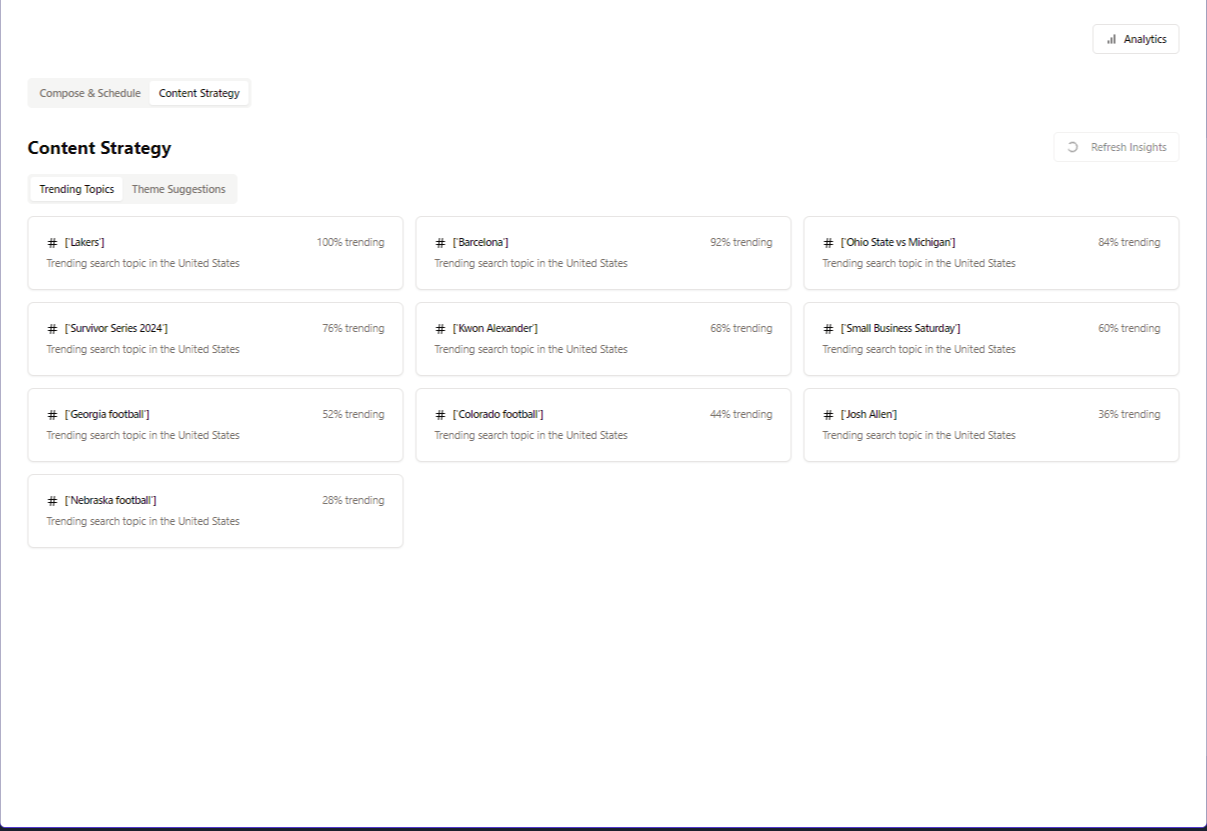
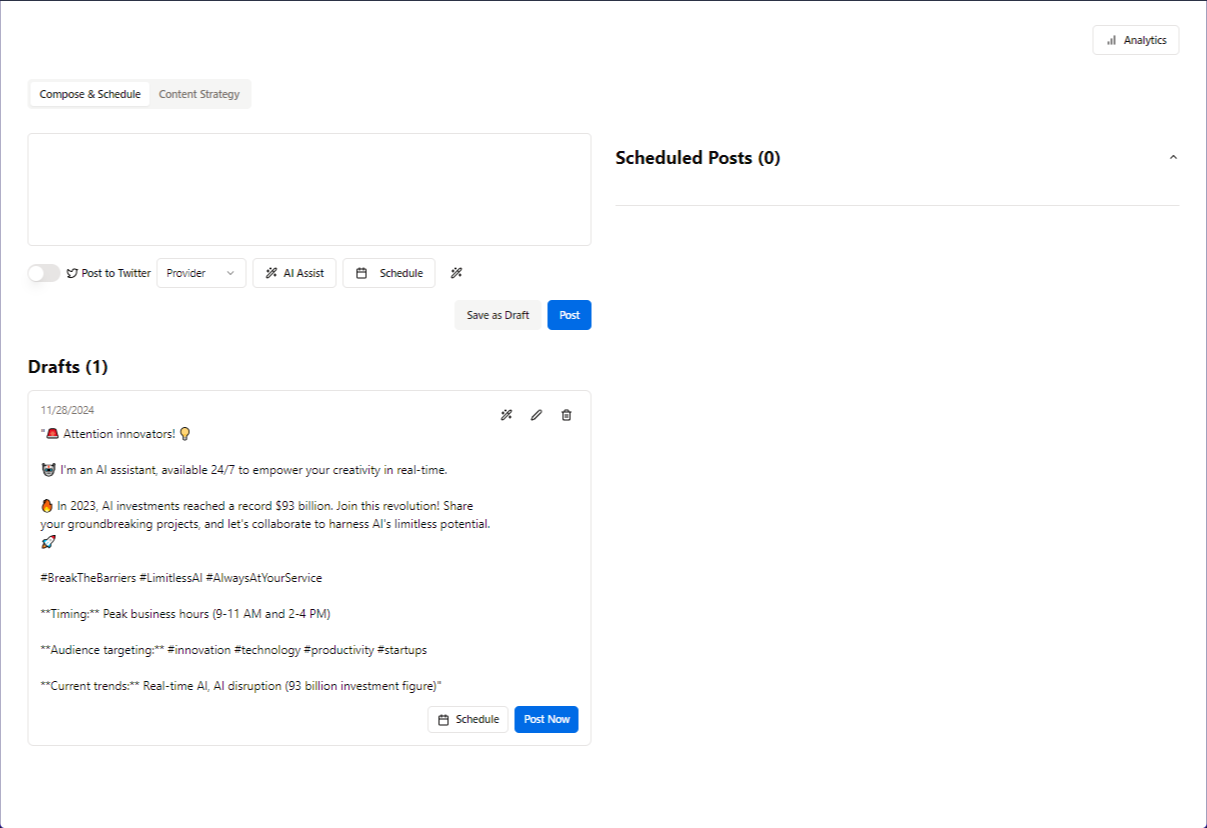
Agent query: Please check if the Analytics button is now properly aligned with the Compose & Schedule and Content Strategy tabs

diff --git a/client/src/pages/dashboard.tsx b/client/src/pages/dashboard.tsx
@@ -11,20 +11,19 @@ import { Tabs, TabsContent, TabsList, TabsTrigger } from "@/components/ui/tabs";
 export function Dashboard() {
   return (
     <div className="container mx-auto py-8">
-      <div className="flex justify-end mb-8">
-        <Button asChild variant="outline">
-          <Link href="/analytics" className="flex items-center gap-2">
-            <BarChart className="h-4 w-4" />
-            Analytics
-          </Link>
-        </Button>
-      </div>
-      
       <Tabs defaultValue="compose" className="space-y-8">
-        <TabsList>
-          <TabsTrigger value="compose">Compose & Schedule</TabsTrigger>
-          <TabsTrigger value="strategy">Content Strategy</TabsTrigger>
-        </TabsList>
+        <div className="flex items-center justify-between mb-4">
+          <TabsList className="mr-4">
+            <TabsTrigger value="compose">Compose & Schedule</TabsTrigger>
+            <TabsTrigger value="strategy">Content Strategy</TabsTrigger>
+          </TabsList>
+          <Button asChild variant="outline">
+            <Link href="/analytics" className="flex items-center gap-2">
+              <BarChart className="h-4 w-4" />
+              Analytics
+            </Link>
+          </Button>
+        </div>
 
         <TabsContent value="compose">
           <div className="grid grid-cols-1 md:grid-cols-2 gap-8">
